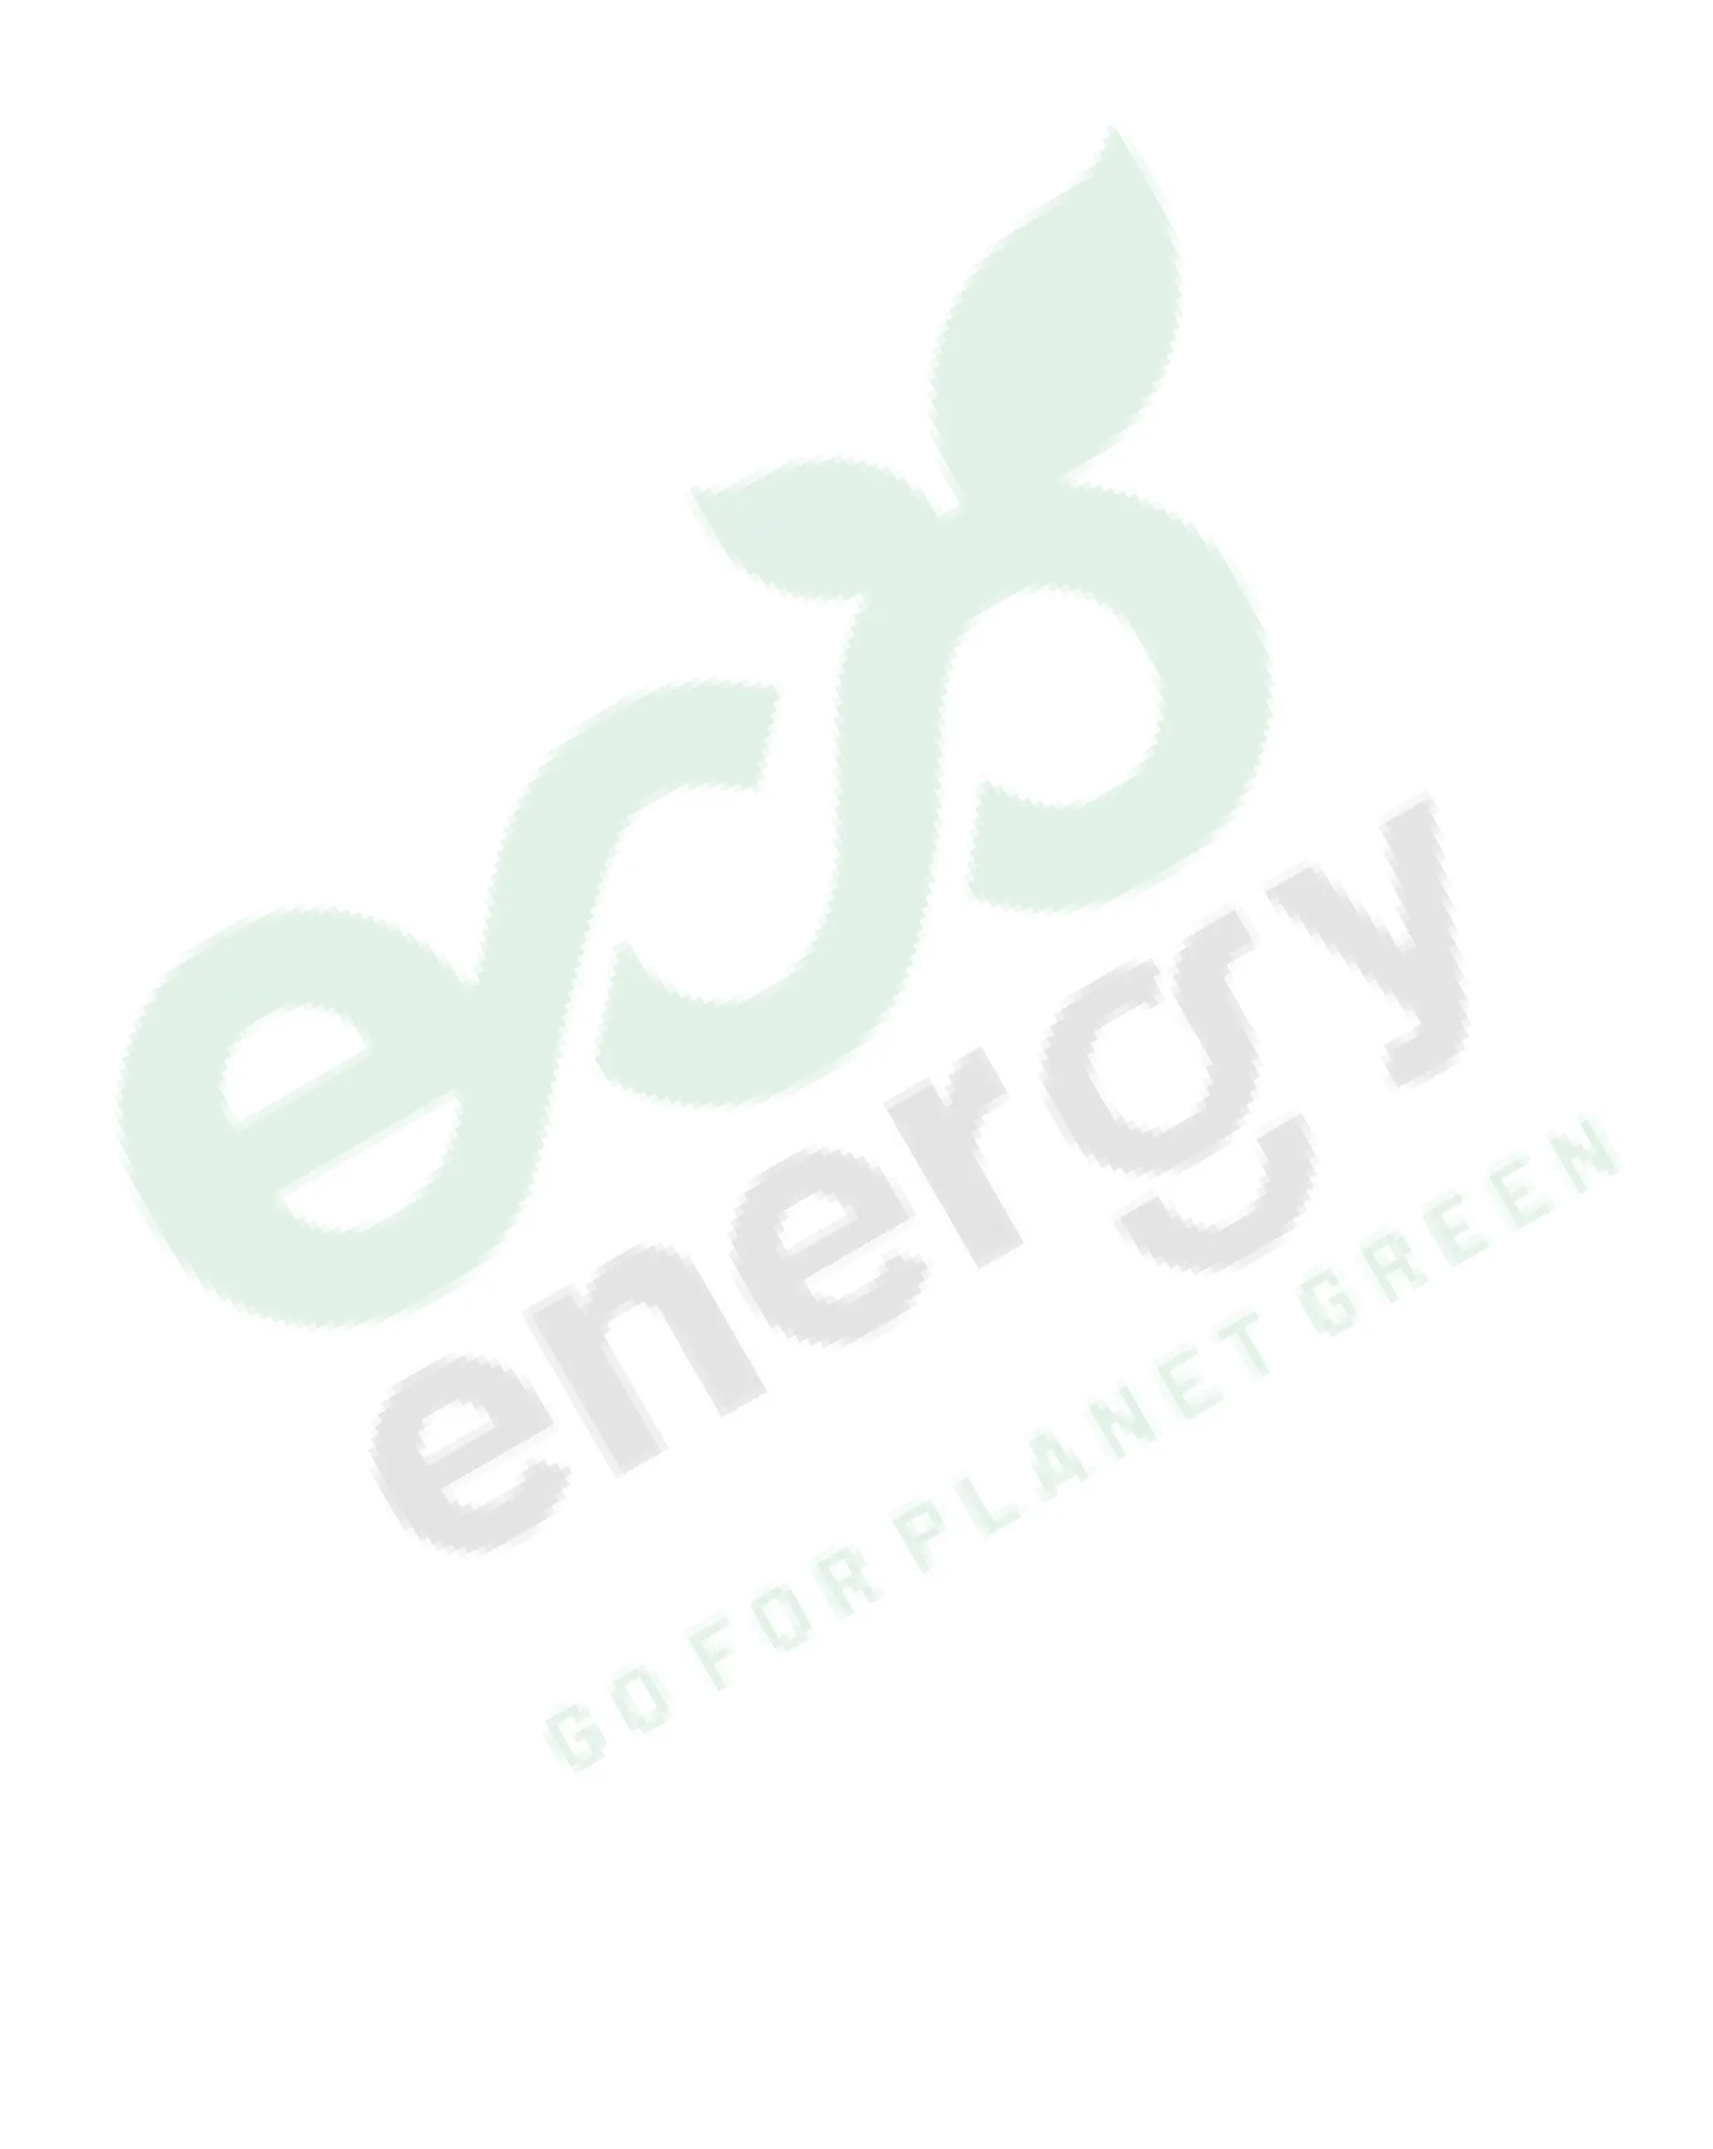
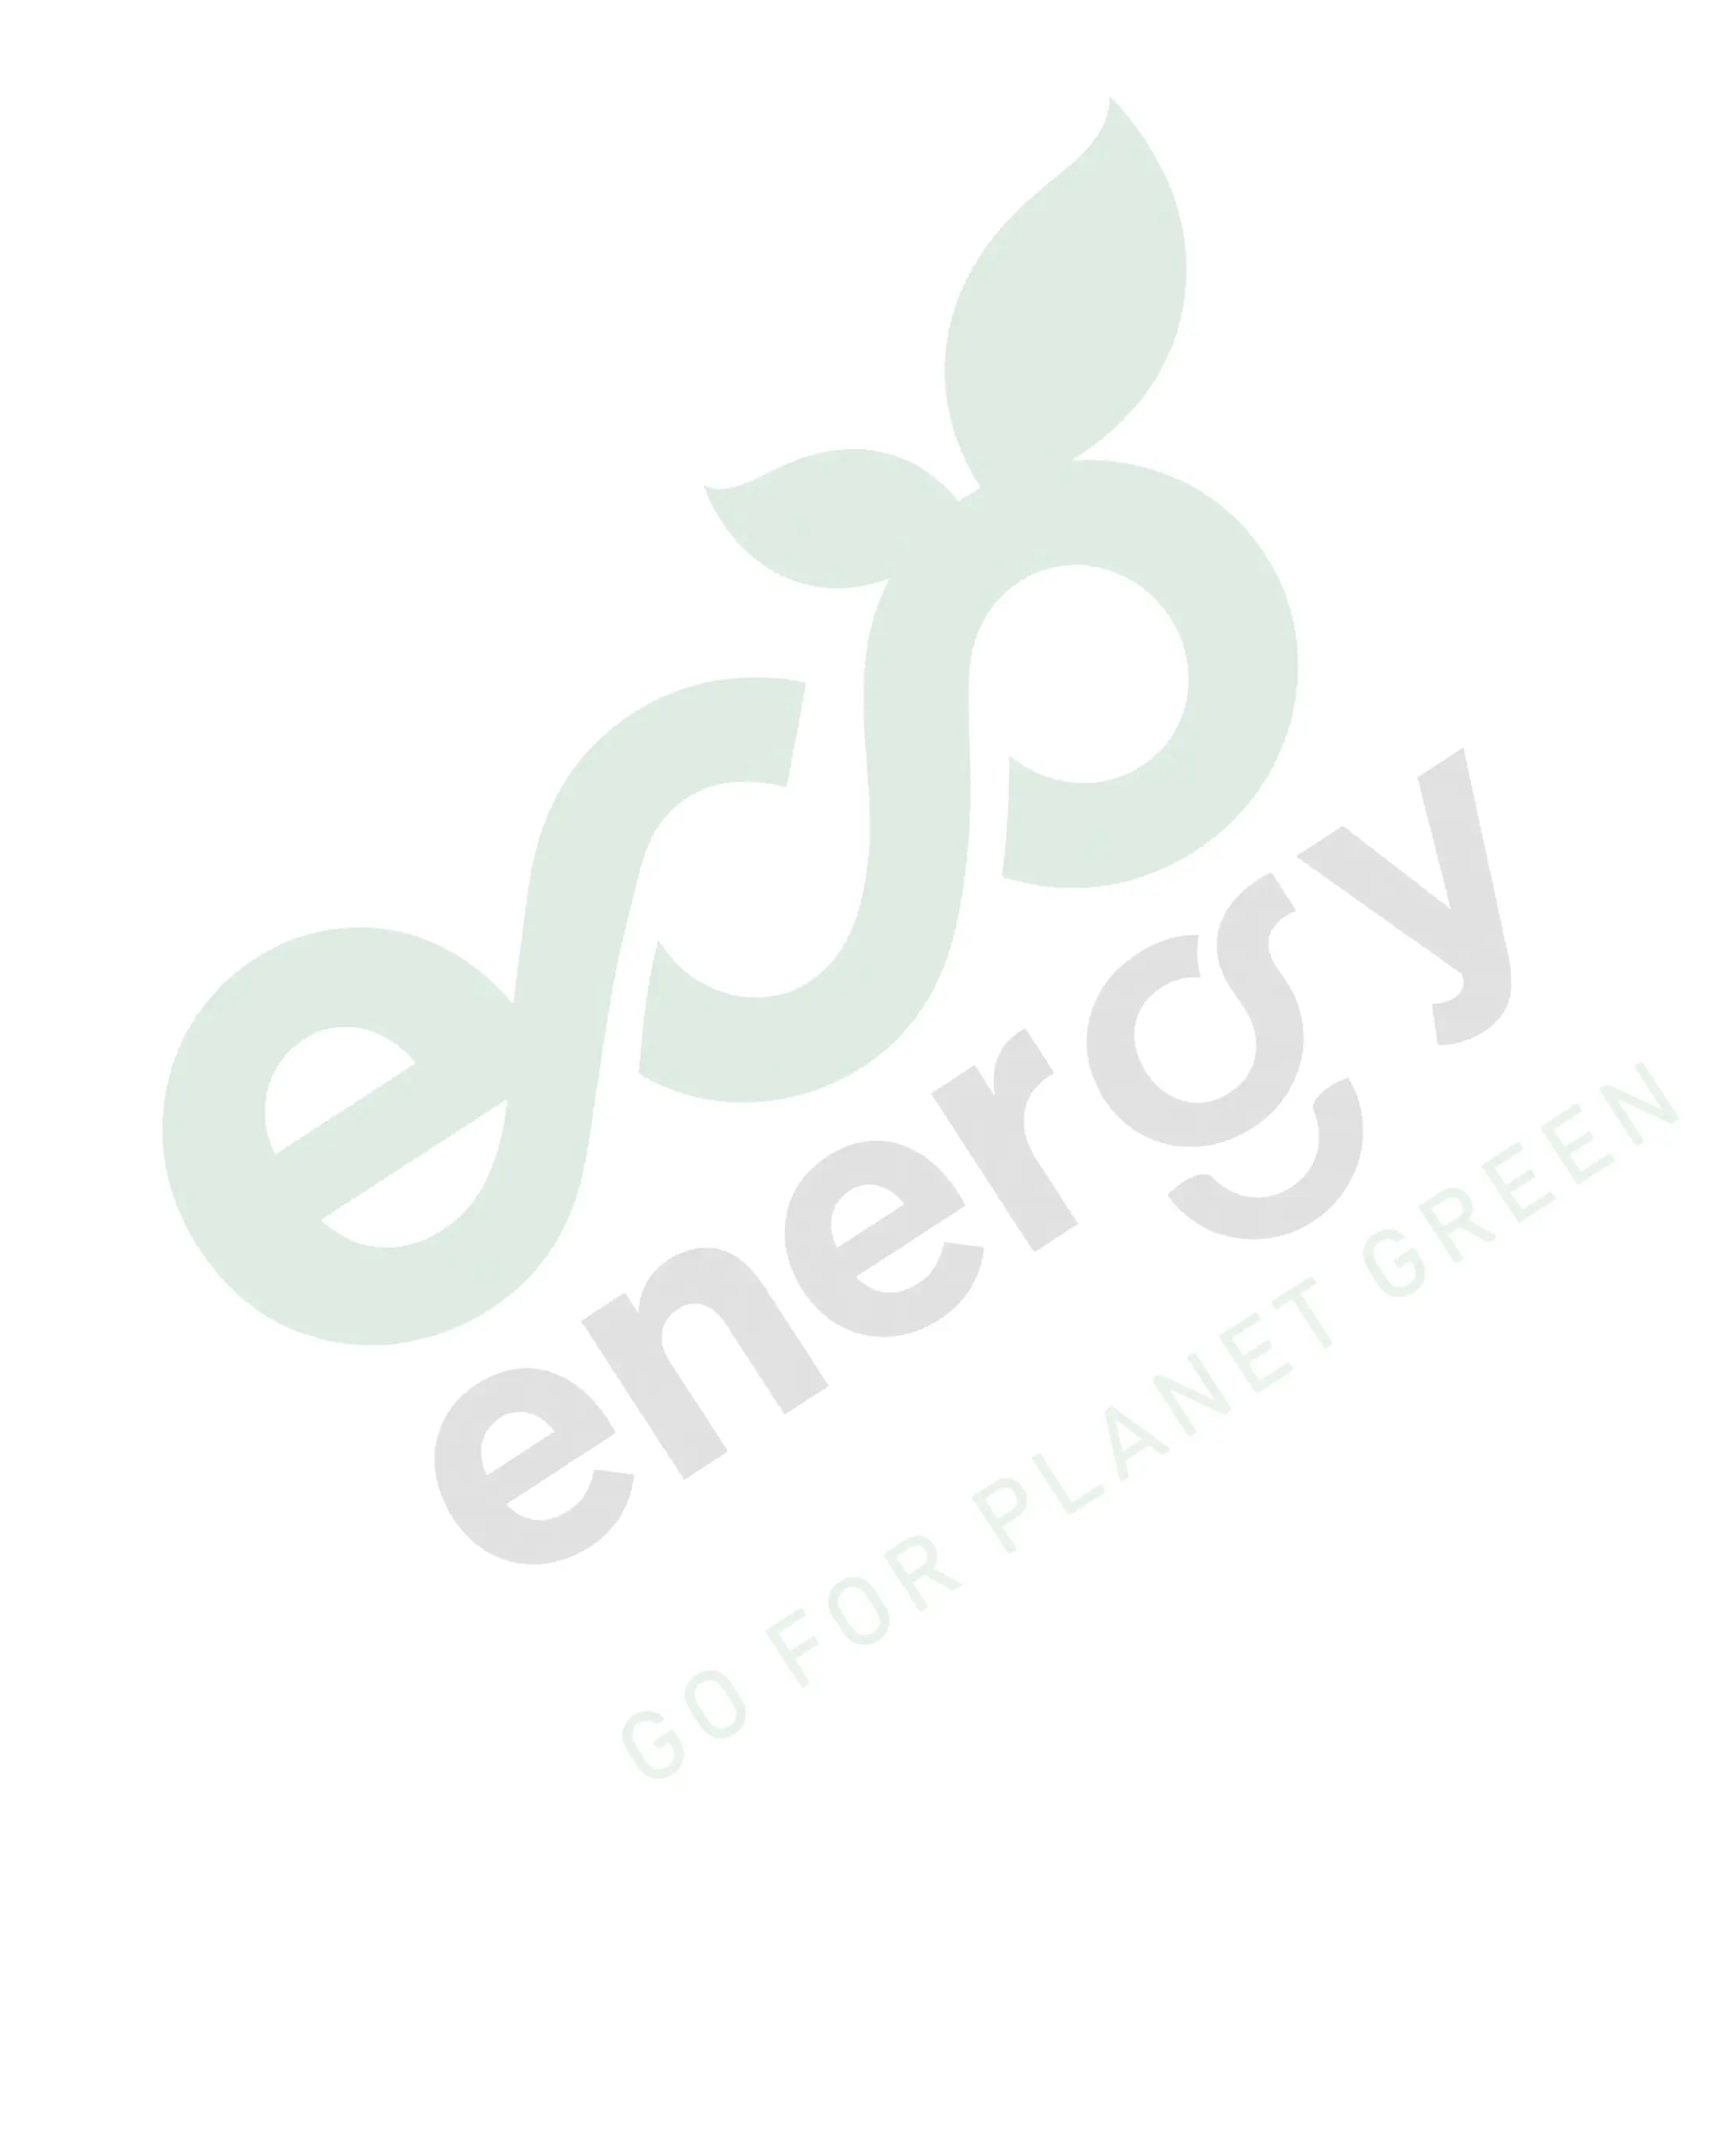
first commit

diff --git a/lightBox/style.css b/lightBox/style.css
@@ -20,7 +20,7 @@
   transform: translate(-50%, -50%) rotate(-25deg);
   /*width: clamp(120px, 25vw, 400px); */
   width: 50%;
-  opacity: 0.08; /* light watermark */
+  opacity: 15%; /* light watermark */
   pointer-events: none;
   z-index: 1;
 }
